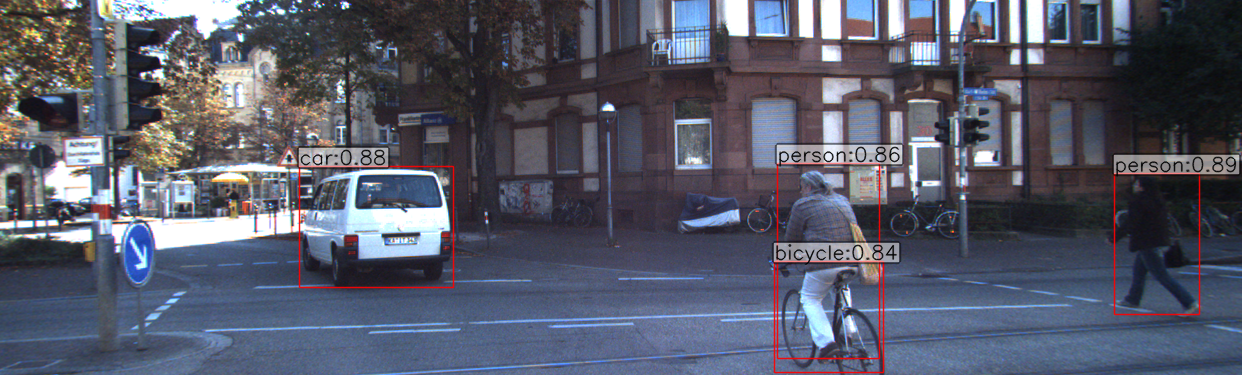
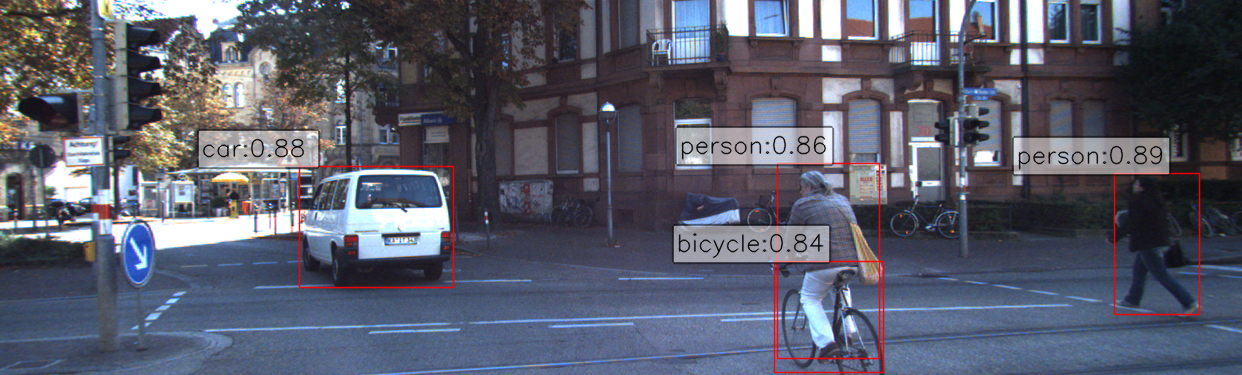
yolov5 plot detections

diff --git a/object_detection/yolov5/JetsonYolov5-main/yoloDet.py b/object_detection/yolov5/JetsonYolov5-main/yoloDet.py
@@ -205,10 +205,13 @@ class YoloTRT():
         color = color or [random.randint(0, 255) for _ in range(3)]
         c1, c2 = (int(x[0]), int(x[1])), (int(x[2]), int(x[3]))
         cv2.rectangle(img, c1, c2, color, thickness=tl, lineType=cv2.LINE_AA)
+
+        c1 = (int(x[0]) - 100, int(x[1]))
+        c2 = (c1[0] + 100, c1[1])
         if label:
-            tf = max(tl - 1, 1)  # font thickness
+            tf = 1
             t_size = cv2.getTextSize(label, 0, fontScale=tl / 1.5, thickness=tf)[0]
-            c2 = c1[0] + t_size[0], c1[1] - t_size[1] - 3
+            c2 = c1[0] + t_size[0] + 30, c1[1] - t_size[1] - 20
             alpha = 0.5  # Opacity value between 0 (fully transparent) and 1 (fully opaque)
             overlay = img.copy()
             border_color = (0, 0, 0)  # Black border color
@@ -216,7 +219,7 @@ class YoloTRT():
             cv2.rectangle(overlay, c1, c2, border_color, thickness=tl + border_thickness, lineType=cv2.LINE_AA)  # Black border rectangle
             cv2.rectangle(overlay, c1, c2, (255, 255, 255), -1, cv2.LINE_AA)  # Filled rectangle
             cv2.addWeighted(overlay, alpha, img, 1 - alpha, 0, img)
-            cv2.putText(img, label, (c1[0], c1[1] - 2), 0, tl / 1.5, [0, 0, 0], thickness=tf, lineType=cv2.LINE_AA)
+            cv2.putText(img, label, (c1[0] + 2, c1[1] - 10), cv2.FONT_HERSHEY_SIMPLEX, 0.8, (0,0,0), 1, cv2.LINE_AA)
 
     def original_PlotBbox(self, x, img, color=None, label=None, line_thickness=None):
         tl = (line_thickness or round(0.002 * (img.shape[0] + img.shape[1]) / 2) + 1)  # line/font thickness
